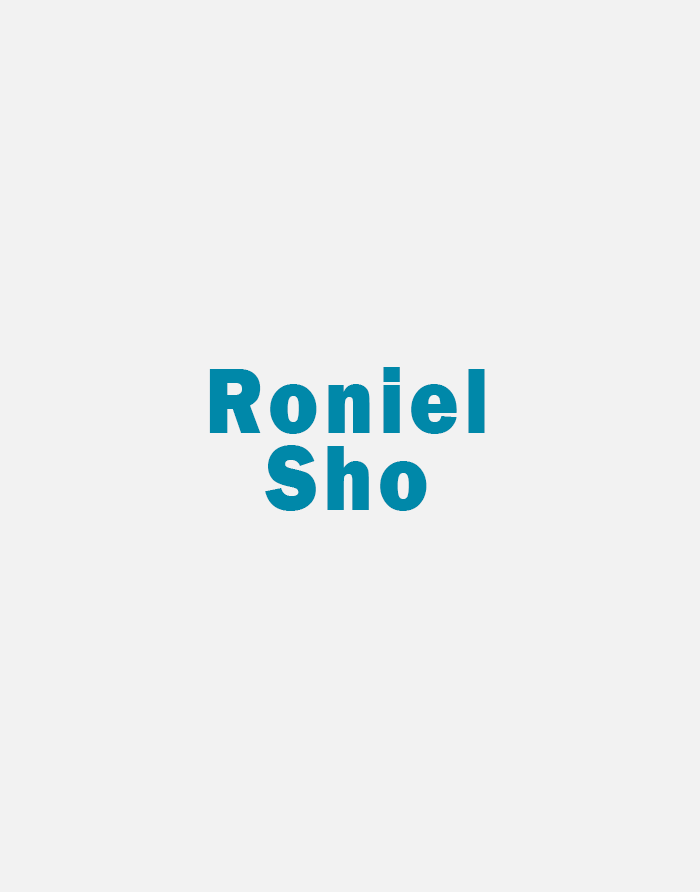
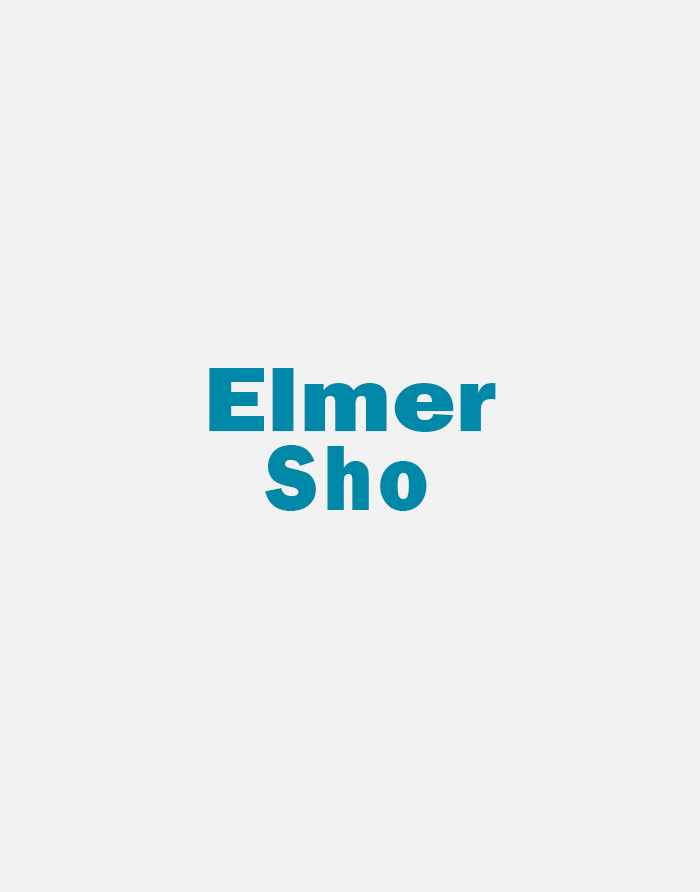
aupdate

Changed region(s): [[0.3, 0.3935, 0.72, 0.4843]]

diff --git a/devteam.html b/devteam.html
@@ -4,7 +4,7 @@
     <meta charset="UTF-8" />
     <meta name="viewport" content="width=device-width, initial-scale=1.0" />
     <meta name="author" content="Devan Martinez">
-    <title>Devan Web Page | DEV TEAM</title>
+    <title>Group 11's WebPage | DEV TEAM</title>
     <link rel="shortcut icon" type="image/png" href="./img/favicon.png">
     <link rel="stylesheet" href="./css/style.css" />
     <script src="./js/script.js" defer></script>
@@ -86,7 +86,7 @@
                      <img src="img/team-3.png" alt="team" />
                      <div class="inner">
                          <div class="info">
-                              <h5>Roniel Sho</h5>
+                              <h5>Elmer Sho</h5>
                               <p>Web Designer</p>
                               <div class="social-links">
                                   <a href=""><span class="fa fa-facebook"></span></a>
@@ -108,22 +108,7 @@
     <section id="footer">
       <div class="footer container">
         <div class="logo"><h1><span>G</span>roup <span>11</span></h1></div>
-        
-      <h2>Am Apart Of Group 11</h2>
-      <p>Feel free to contact if any questions</p>
-      <div class="social-icon">
-        <div class="social-item">
-          <a href="https://www.facebook.com/tstar.martin7"><img src="https://img.icons8.com/bubbles/100/000000/facebook-new.png"/></a>
-        </div>
-        <div class="social-item">
-          <a href="https://www.instagram.com/tremaine.bz/"><img src="https://img.icons8.com/bubbles/100/000000/instagram-new.png"/></a>
-        </div>
-        <div class="social-item">
-          <a href="https://twitter.com/D_T_Martin"><img src="https://img.icons8.com/bubbles/100/000000/twitter.png"/></a>
-        </div>
-      </div>
-      
-        <p>Devan Martinez : Fundamentals of Computing Web Page, Copyright &copy; <script>document.write(new Date().getFullYear());</script></p>
+      <p>Group 11's : Fundamentals of Computing Web Page, Copyright &copy; <script>document.write(new Date().getFullYear());</script></p>
       </div>
       
     </section>

diff --git a/index.html b/index.html
@@ -4,7 +4,7 @@
     <meta charset="UTF-8" />
     <meta name="viewport" content="width=device-width, initial-scale=1.0" />
     <meta name="author" content="Devan Martinez">
-    <title>Devan Web Page | Welcome</title>
+    <title>Group 11's Web Page | Welcome</title>
     <link rel="stylesheet" href="./css/style2.css" />
     <script src="./js/script.js" defer></script>
 
@@ -45,7 +45,7 @@
         <div>
           <h1>Fundamentals Of Computing <span></span></h1>
           <h1> <span></span></h1>
-          <p><b></b><i>Welcome to Devan T Martinez web page for the fundamentals of computing class (CMPS1134) at the <br><b>university of Belize</b></p></i>
+          <p><b></b><i>Welcome to <b>Group 11's</b> web page for the fundamentals of computing class (CMPS1134) at the <br><b>university of Belize</b></p></i>
         </div>
         <div class="about container">
            <div class="col-left">
@@ -99,21 +99,7 @@
     <section id="footer">
       <div class="footer container">
         <div class="logo"><h1><span>G</span>roup <span>11</span></h1></div>
-        
-      <h2>Am Apart Of Group 11</h2>
-      <div class="social-icon">
-        <div class="social-item">
-          <a href="https://www.facebook.com/tstar.martin7"><img src="https://img.icons8.com/bubbles/100/000000/facebook-new.png"/></a>
-        </div>
-        <div class="social-item">
-          <a href="https://www.instagram.com/tremaine.bz/"><img src="https://img.icons8.com/bubbles/100/000000/instagram-new.png"/></a>
-        </div>
-        <div class="social-item">
-          <a href="https://twitter.com/D_T_Martin"><img src="https://img.icons8.com/bubbles/100/000000/twitter.png"/></a>
-        </div>
-      </div>
-      
-        <p>Devan Martinez : Fundamentals of Computing Web Page, Copyright &copy; <script>document.write(new Date().getFullYear());</script></p>
+        <p>Group 11's : Fundamentals of Computing Web Page, Copyright &copy; <script>document.write(new Date().getFullYear());</script></p>
       </div>
       
     </section>

diff --git a/Documentation.html b/Documentation.html
@@ -4,7 +4,7 @@
     <meta charset="UTF-8" />
     <meta name="viewport" content="width=device-width, initial-scale=1.0" />
     <meta name="author" content="Devan Martinez">
-    <title>Devan Web Page | DATABASES</title>
+    <title>Group 11's WebPage | DATABASES</title>
     <link rel="shortcut icon" type="image/png" href="./img/favicon.png">
     <link rel="stylesheet" href="./css/style.css" />
     <script src="./js/script.js" defer></script>
@@ -42,14 +42,14 @@
    <!-- Documentation Section -->
 <section id="about">
   <div class="about container">
-    <div class="col-left">
-      <div class="about2-img">
-        <img src="./img/under-construction.png"  alt="img" />
+    <div class="col-right">
+      <div class="present">
+        <a href="https://drive.google.com/file/d/1scB-3Vz4Pmb0yQJ4kwMkUxCmi0kGLuvv/view?usp=sharing"><img src="./img/app.png" alt="img"></a>
       </div>
     </div>
     <div class="col-right">
       <h1 class="section-title">Documen<span>taion</span></h1>
-      <p><b>Content will be posted here<br>when that information comes avalable!</b></br></p>
+      <p style="text-align: center;"><b>Click on the image for Document.</b></br></p>
     </div>
   </div>
 </section>
@@ -60,7 +60,7 @@
 
       <div class="footer container">
         <div class="logo"><h1><span>G</span>roup <span>11</span></h1></div>
-        <p>Devan Martinez : Fundamentals of Computing Web Page, Copyright &copy; <script>document.write(new Date().getFullYear());</script></p>
+        <p>Group 11's : Fundamentals of Computing Web Page, Copyright &copy; <script>document.write(new Date().getFullYear());</script></p>
       </div>
 
     </section>

diff --git a/Course.html b/Course.html
@@ -4,7 +4,7 @@
     <meta charset="UTF-8" />
     <meta name="viewport" content="width=device-width, initial-scale=1.0" />
     <meta name="author" content="Devan Martinez">
-    <title>Devan Web Page | COURSE</title>
+    <title>Group 11's WebPage | COURSE</title>
     <link rel="shortcut icon" type="image/png" href="./img/favicon.png">
     <link rel="stylesheet" href="./css/style.css" />
     <script src="./js/script.js" defer></script>
@@ -44,7 +44,7 @@
   <div class="about container">
     <div class="col-left">
       <div class="about2-img">
-        <img src="./img/computing.png" alt="img" />
+        <img src="./img/computing2.svg" alt="img" style="margin-top: 70px;"/>
       </div>
     </div>
     <div class="col-right">
@@ -62,7 +62,7 @@
     <section id="footer">
       <div class="footer container">
         <div class="logo"><h1><span>G</span>roup <span>11</span></h1></div>
-        <p>Devan Martinez : Fundamentals of Computing Web Page, Copyright &copy; <script>document.write(new Date().getFullYear());</script></p>
+        <p>Group 11's : Fundamentals of Computing Web Page, Copyright &copy; <script>document.write(new Date().getFullYear());</script></p>
       </div>
     </section>
     <!-- End Footer -->

diff --git a/Databases.html b/Databases.html
@@ -4,7 +4,7 @@
     <meta charset="UTF-8" />
     <meta name="viewport" content="width=device-width, initial-scale=1.0" />
     <meta name="author" content="Devan Martinez">
-    <title>Devan Web Page | DATABASES</title>
+    <title>Group 11's WebPage | DATABASES</title>
     <link rel="shortcut icon" type="image/png" href="./img/favicon.png">
     <link rel="stylesheet" href="./css/style.css" />
     <script src="./js/script.js" defer></script>
@@ -57,12 +57,11 @@
 
     <!-- Footer -->
     <section id="footer">
-
       <div class="footer container">
         <div class="logo"><h1><span>G</span>roup <span>11</span></h1></div>
-        <p>Devan Martinez : Fundamentals of Computing Web Page, Copyright &copy; <script>document.write(new Date().getFullYear());</script></p>
+        <p>Group 11's : Fundamentals of Computing Web Page, Copyright &copy; <script>document.write(new Date().getFullYear());</script></p>
       </div>
-
+      
     </section>
     <!-- End Footer -->
     <script src="./js/script.js"></script>

diff --git a/underconstrution.html b/underconstrution.html
@@ -4,7 +4,7 @@
     <meta charset="UTF-8" />
     <meta name="viewport" content="width=device-width, initial-scale=1.0" />
     <meta name="author" content="Devan Martinez">
-    <title>Devan Web Page | UNDER-CONSTRUTION</title>
+    <title>Group 11's WebPage | UNDER-CONSTRUTION</title>
     <link rel="shortcut icon" type="image/png" href="./img/favicon.png">
     <link rel="stylesheet" href="./css/style.css" />
     <script src="./js/script.js" defer></script>
@@ -60,7 +60,7 @@
 
       <div class="footer container">
         <div class="logo"><h1><span>G</span>roup <span>11</span></h1></div>
-        <p>Devan Martinez : Fundamentals of Computing Web Page, Copyright &copy; <script>document.write(new Date().getFullYear());</script></p>
+        <p>Group 11's : Fundamentals of Computing Web Page, Copyright &copy; <script>document.write(new Date().getFullYear());</script></p>
       </div>
 
     </section>

diff --git a/stud2.html b/stud2.html
@@ -4,7 +4,7 @@
     <meta charset="UTF-8" />
     <meta name="viewport" content="width=device-width, initial-scale=1.0" />
     <meta name="author" content="Devan Martinez">
-    <title>Devan Web Page | BMI CALCULATOR</title>
+    <title>Group 11's WebPage | BMI CALCULATOR</title>
     <link rel="shortcut icon" type="image/png" href="./img/favicon.png">
     <link rel="stylesheet" href="./css/style.css" />
     <script src="./js/script.js" defer></script>
@@ -126,7 +126,7 @@
 <section id="footer">
   <div class="footer container">
     <div class="logo"><h1><span>G</span>roup <span>11</span></h1></div>
-    <p>Devan Martinez : Fundamentals of Computing Web Page, Copyright &copy; <script>document.write(new Date().getFullYear());</script></p>
+    <p>Group 11's : Fundamentals of Computing Web Page, Copyright &copy; <script>document.write(new Date().getFullYear());</script></p>
   </div>
   
 </section>

diff --git a/ascii.html b/ascii.html
@@ -4,7 +4,7 @@
     <meta charset="UTF-8" />
     <meta name="viewport" content="width=device-width, initial-scale=1.0" />
     <meta name="author" content="Devan Martinez">
-    <title>Devan Web Page | BMI CALCULATOR</title>
+    <title>Group 11's WebPage | BMI CALCULATOR</title>
     <link rel="shortcut icon" type="image/png" href="./img/favicon.png">
     <link rel="stylesheet" href="./css/style.css" />
     <script src="./js/script.js" defer></script>
@@ -66,7 +66,7 @@
 <section id="footer">
   <div class="footer container">
     <div class="logo"><h1><span>G</span>roup <span>11</span></h1></div>
-    <p>Devan Martinez : Fundamentals of Computing Web Page, Copyright &copy; <script>document.write(new Date().getFullYear());</script></p>
+    <p>Group 11's : Fundamentals of Computing Web Page, Copyright &copy; <script>document.write(new Date().getFullYear());</script></p>
   </div>
   
 </section>

diff --git a/bmical.html b/bmical.html
@@ -4,7 +4,7 @@
     <meta charset="UTF-8" />
     <meta name="viewport" content="width=device-width, initial-scale=1.0" />
     <meta name="author" content="Devan Martinez">
-    <title>Devan Web Page | BMI CALCULATOR</title>
+    <title>Group 11's WebPage | BMI CALCULATOR</title>
     <link rel="shortcut icon" type="image/png" href="./img/favicon.png">
     <link rel="stylesheet" href="./css/style.css" />
     <script src="./js/script.js" defer></script>
@@ -70,7 +70,7 @@
 <section id="footer">
   <div class="footer container">
     <div class="logo"><h1><span>G</span>roup <span>11</span></h1></div>
-    <p>Devan Martinez : Fundamentals of Computing Web Page, Copyright &copy; <script>document.write(new Date().getFullYear());</script></p>
+    <p>Group 11's : Fundamentals of Computing Web Page, Copyright &copy; <script>document.write(new Date().getFullYear());</script></p>
   </div>
   
 </section>

diff --git a/unicode.html b/unicode.html
@@ -4,7 +4,7 @@
     <meta charset="UTF-8" />
     <meta name="viewport" content="width=device-width, initial-scale=1.0" />
     <meta name="author" content="Devan Martinez">
-    <title>Devan Web Page | BMI CALCULATOR</title>
+    <title>Group 11's WebPage | BMI CALCULATOR</title>
     <link rel="shortcut icon" type="image/png" href="./img/favicon.png">
     <link rel="stylesheet" href="./css/style.css" />
     <script src="./js/script.js" defer></script>
@@ -75,7 +75,7 @@
 <section id="footer">
   <div class="footer container">
     <div class="logo"><h1><span>G</span>roup <span>11</span></h1></div>
-    <p>Devan Martinez : Fundamentals of Computing Web Page, Copyright &copy; <script>document.write(new Date().getFullYear());</script></p>
+    <p>Group 11's : Fundamentals of Computing Web Page, Copyright &copy; <script>document.write(new Date().getFullYear());</script></p>
   </div>
   
 </section>

diff --git a/Concepts.html b/Concepts.html
@@ -4,7 +4,7 @@
     <meta charset="UTF-8" />
     <meta name="viewport" content="width=device-width, initial-scale=1.0" />
     <meta name="author" content="Devan Martinez">
-    <title>Devan Web Page | CONCEPTS</title>
+    <title>Group 11's WebPage | CONCEPTS</title>
     <link rel="shortcut icon" type="image/png" href="./img/favicon.png">
     <link rel="stylesheet" href="./css/style.css" />
     <script src="./js/script.js" defer></script>
@@ -72,7 +72,7 @@
       
       <div class="footer container">
         <div class="logo"><h1><span>G</span>roup<span>11</span></h1></div>
-        <p>Devan Martinez : Fundamentals of Computing Web Page, Copyright &copy; <script>document.write(new Date().getFullYear());</script></p>
+        <p>Group 11's : Fundamentals of Computing Web Page, Copyright &copy; <script>document.write(new Date().getFullYear());</script></p>
       </div>
     
     </section>

diff --git a/Flipflop.html b/Flipflop.html
@@ -4,7 +4,7 @@
     <meta charset="UTF-8" />
     <meta name="viewport" content="width=device-width, initial-scale=1.0" />
     <meta name="author" content="Devan Martinez">
-    <title>Devan Web Page | FLIP FLOP</title>
+    <title>Group 11's WebPage | FLIP FLOP</title>
     <link rel="shortcut icon" type="image/png" href="./img/favicon.png">
     <link rel="stylesheet" href="./css/style.css" />
     <script src="./js/script.js" defer></script>
@@ -71,7 +71,7 @@
 <section id="footer">
   <div class="footer container">
     <div class="logo"><h1><span>G</span>roup <span>11</span></h1></div>
-    <p>Devan Martinez : Fundamentals of Computing Web Page, Copyright &copy; <script>document.write(new Date().getFullYear());</script></p>
+    <p>Group 11's : Fundamentals of Computing Web Page, Copyright &copy; <script>document.write(new Date().getFullYear());</script></p>
   </div>
   
 </section>
